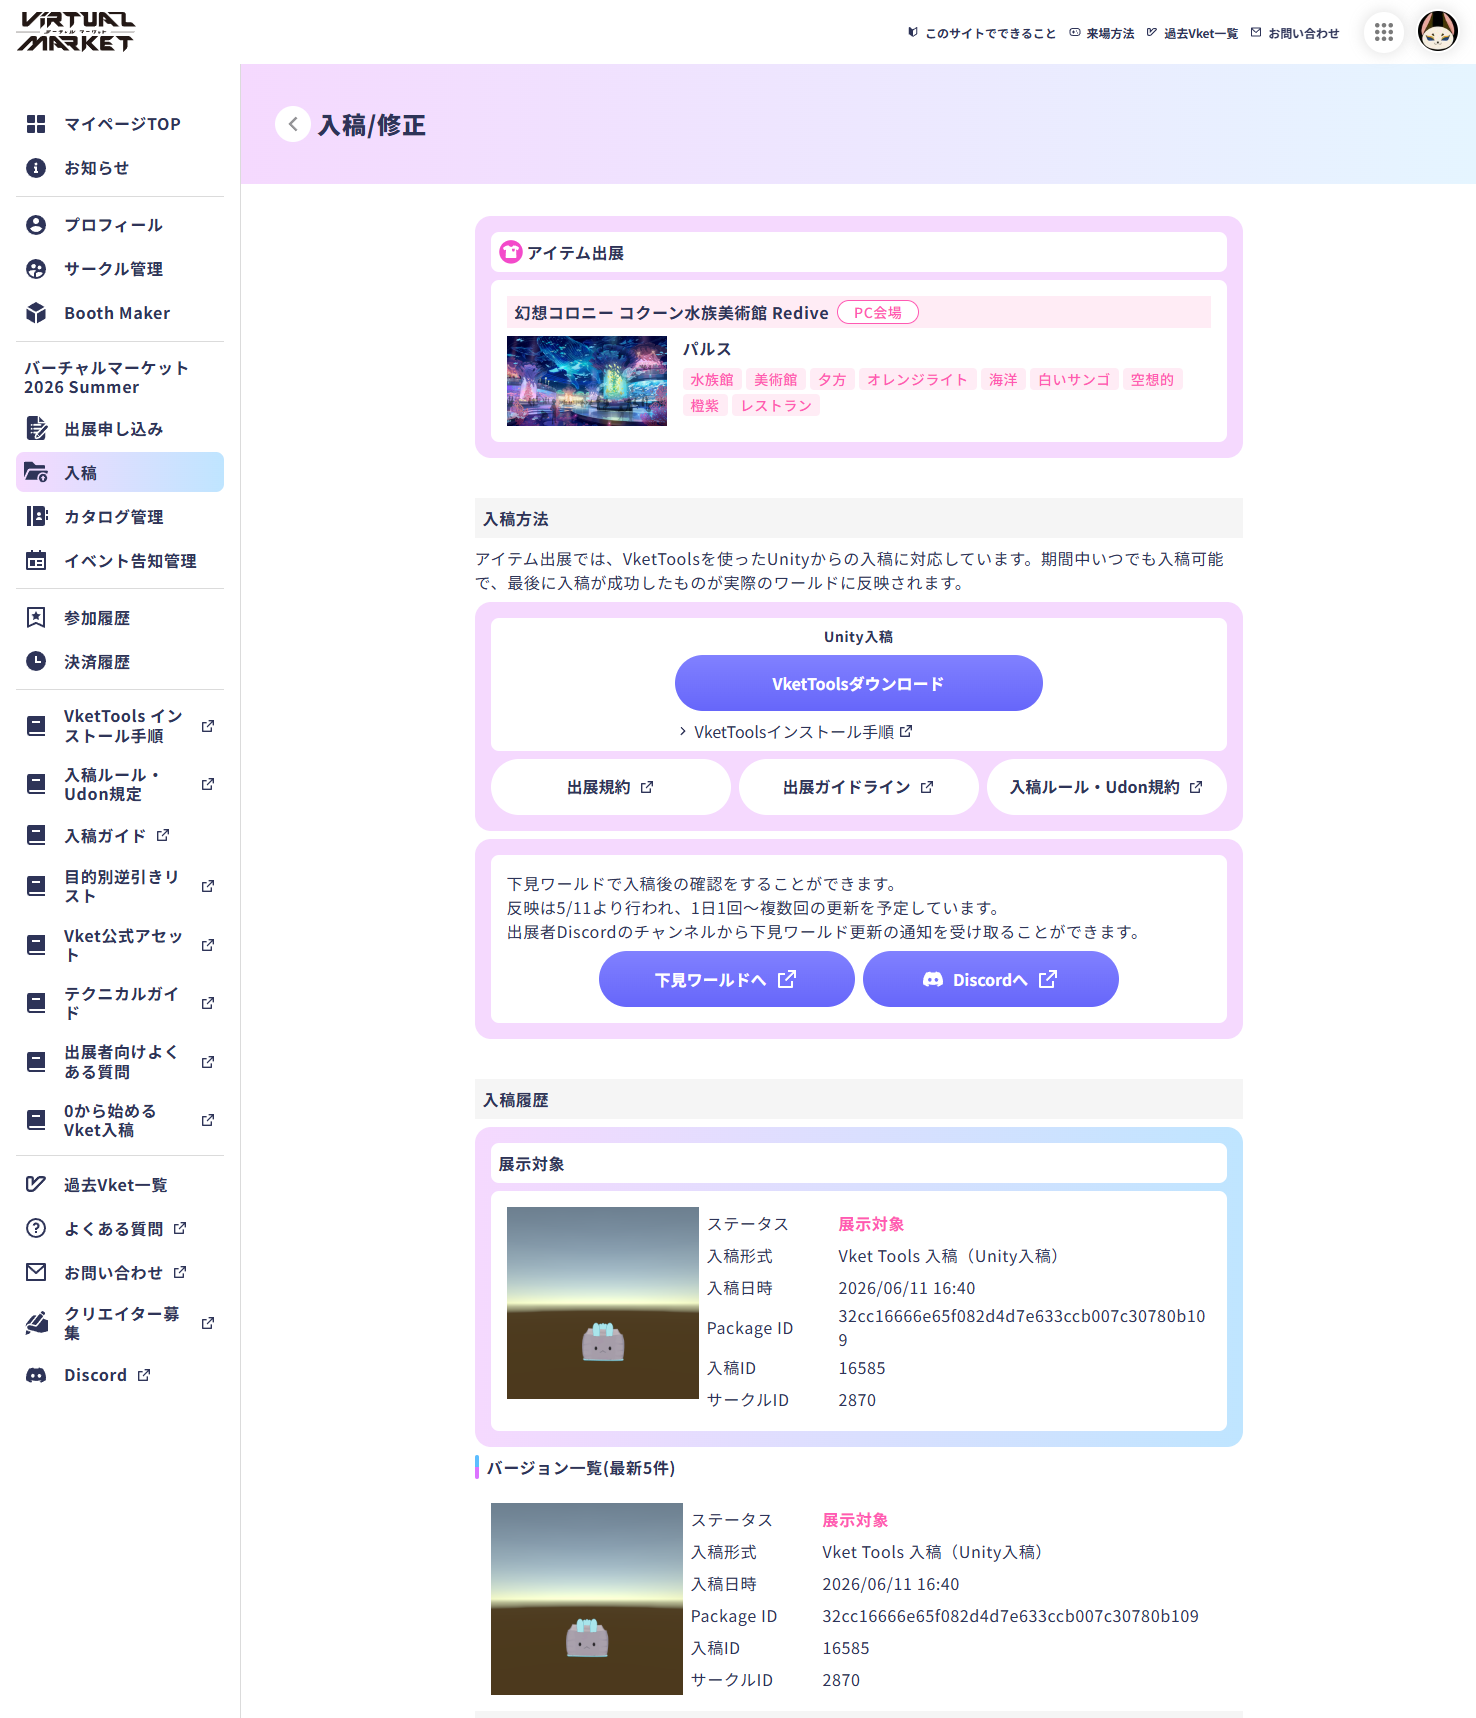
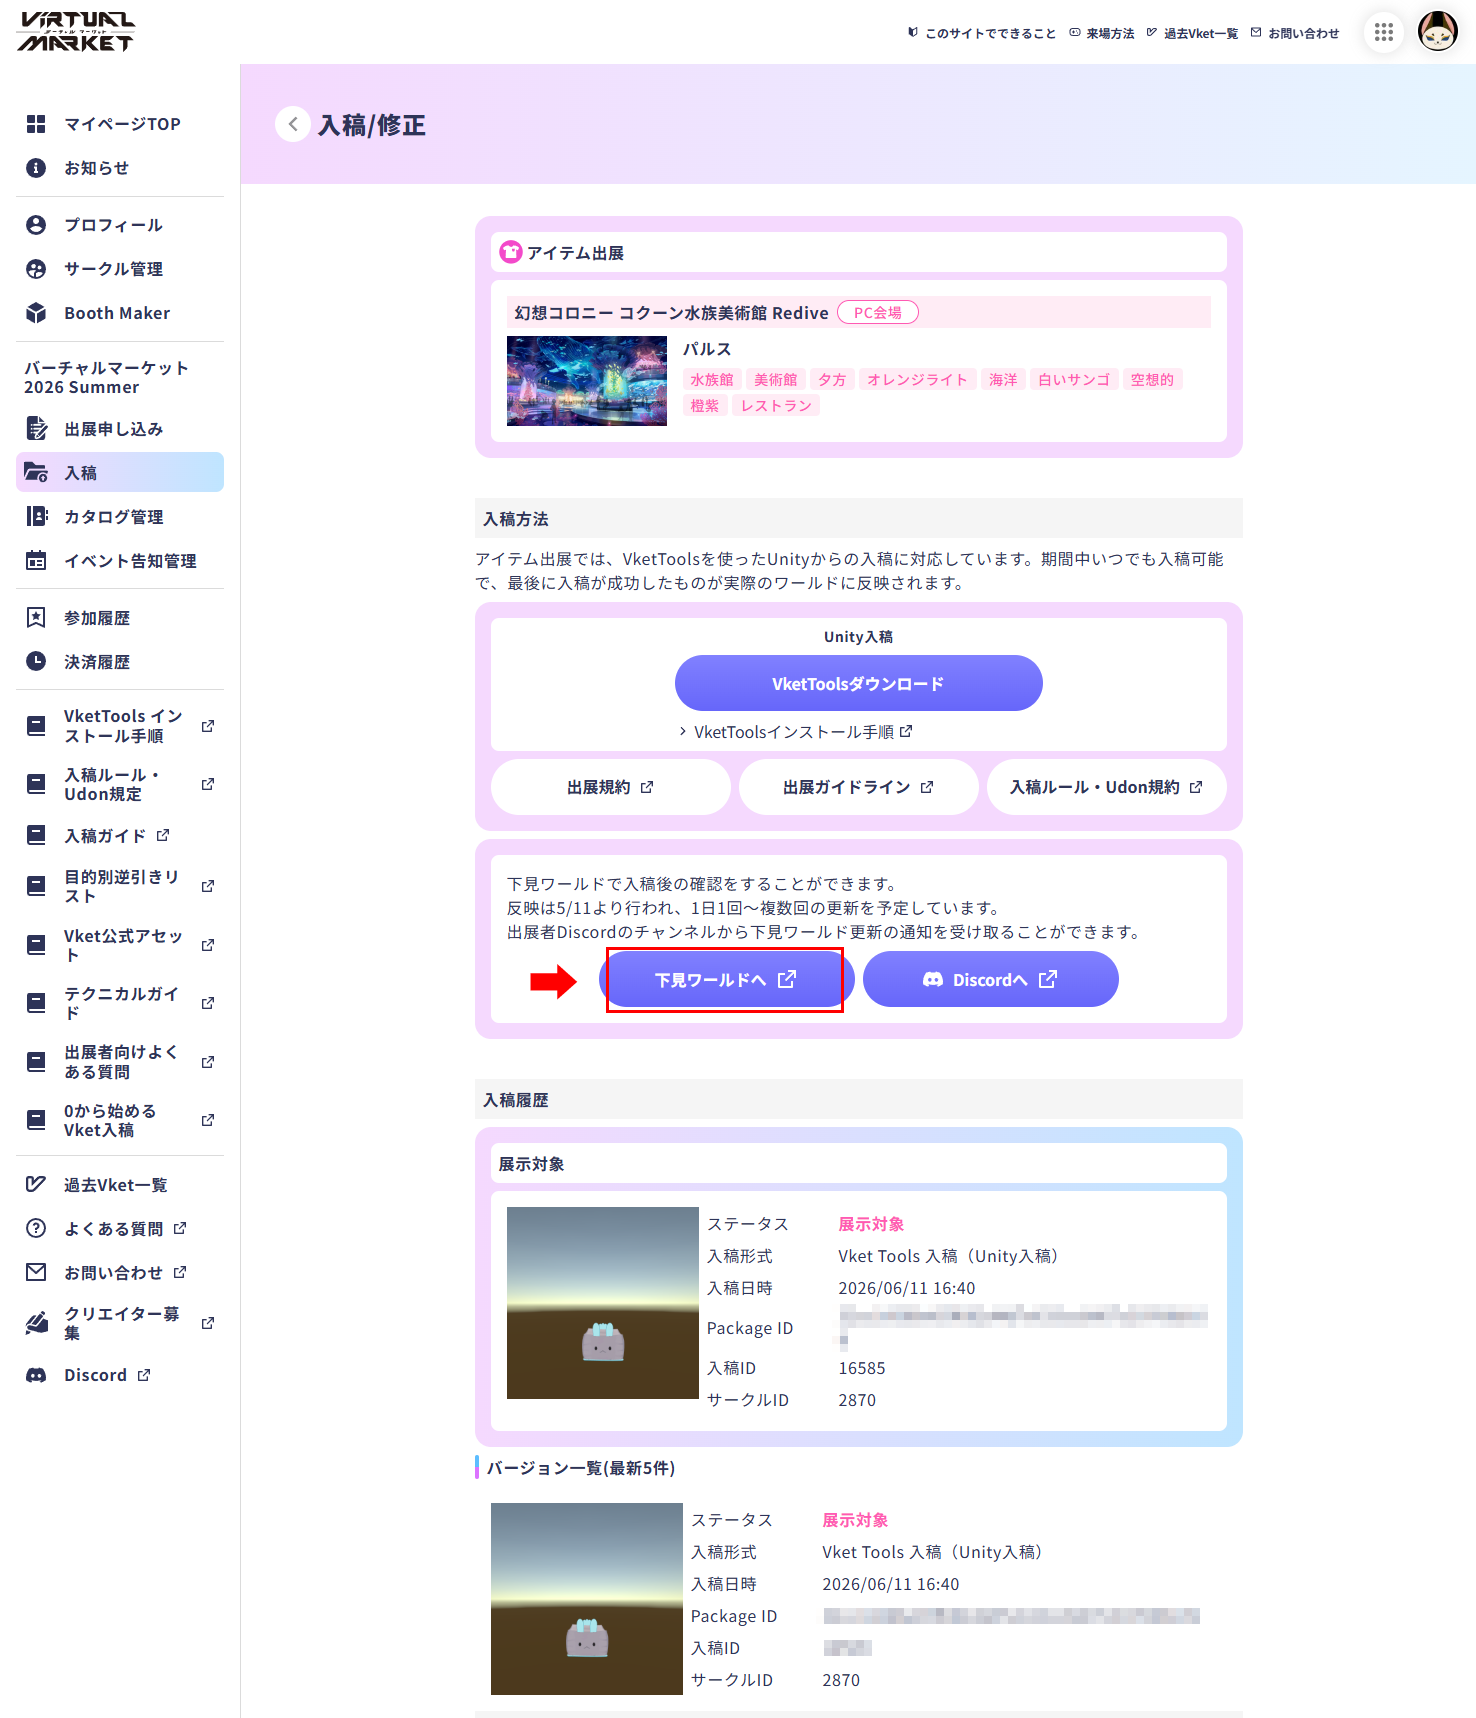
doc全部改number, 因為追加頁數, 圖片更改與追加

Changed region(s): [[0.561, 0.9255, 0.8103, 0.9872], [0.561, 0.7404, 0.8103, 0.7712], [0.3428, 0.5553, 0.4051, 0.5861]]

diff --git a/sidebars.js b/sidebars.js
@@ -9,7 +9,8 @@ const sidebars = {
       items: [
           'why-vket',
           'preparation',
-          'pre-work'
+          'pre-work',
+          'vket-others',
       ],
     },
     {

diff --git a/docs/official-paper.md b/docs/official-paper.md
@@ -1,5 +1,5 @@
 ---
-sidebar_position: 12
+sidebar_position: 13
 ---
 
 # 官方必讀文件

diff --git a/docs/special-thanks.md b/docs/special-thanks.md
@@ -1,5 +1,5 @@
 ---
-sidebar_position: 13
+sidebar_position: 14
 ---
 
 # 特別感謝

diff --git a/docs/tools-and-materials.md b/docs/tools-and-materials.md
@@ -1,5 +1,5 @@
 ---
-sidebar_position: 11
+sidebar_position: 12
 ---
 
 # 使用工具與素材